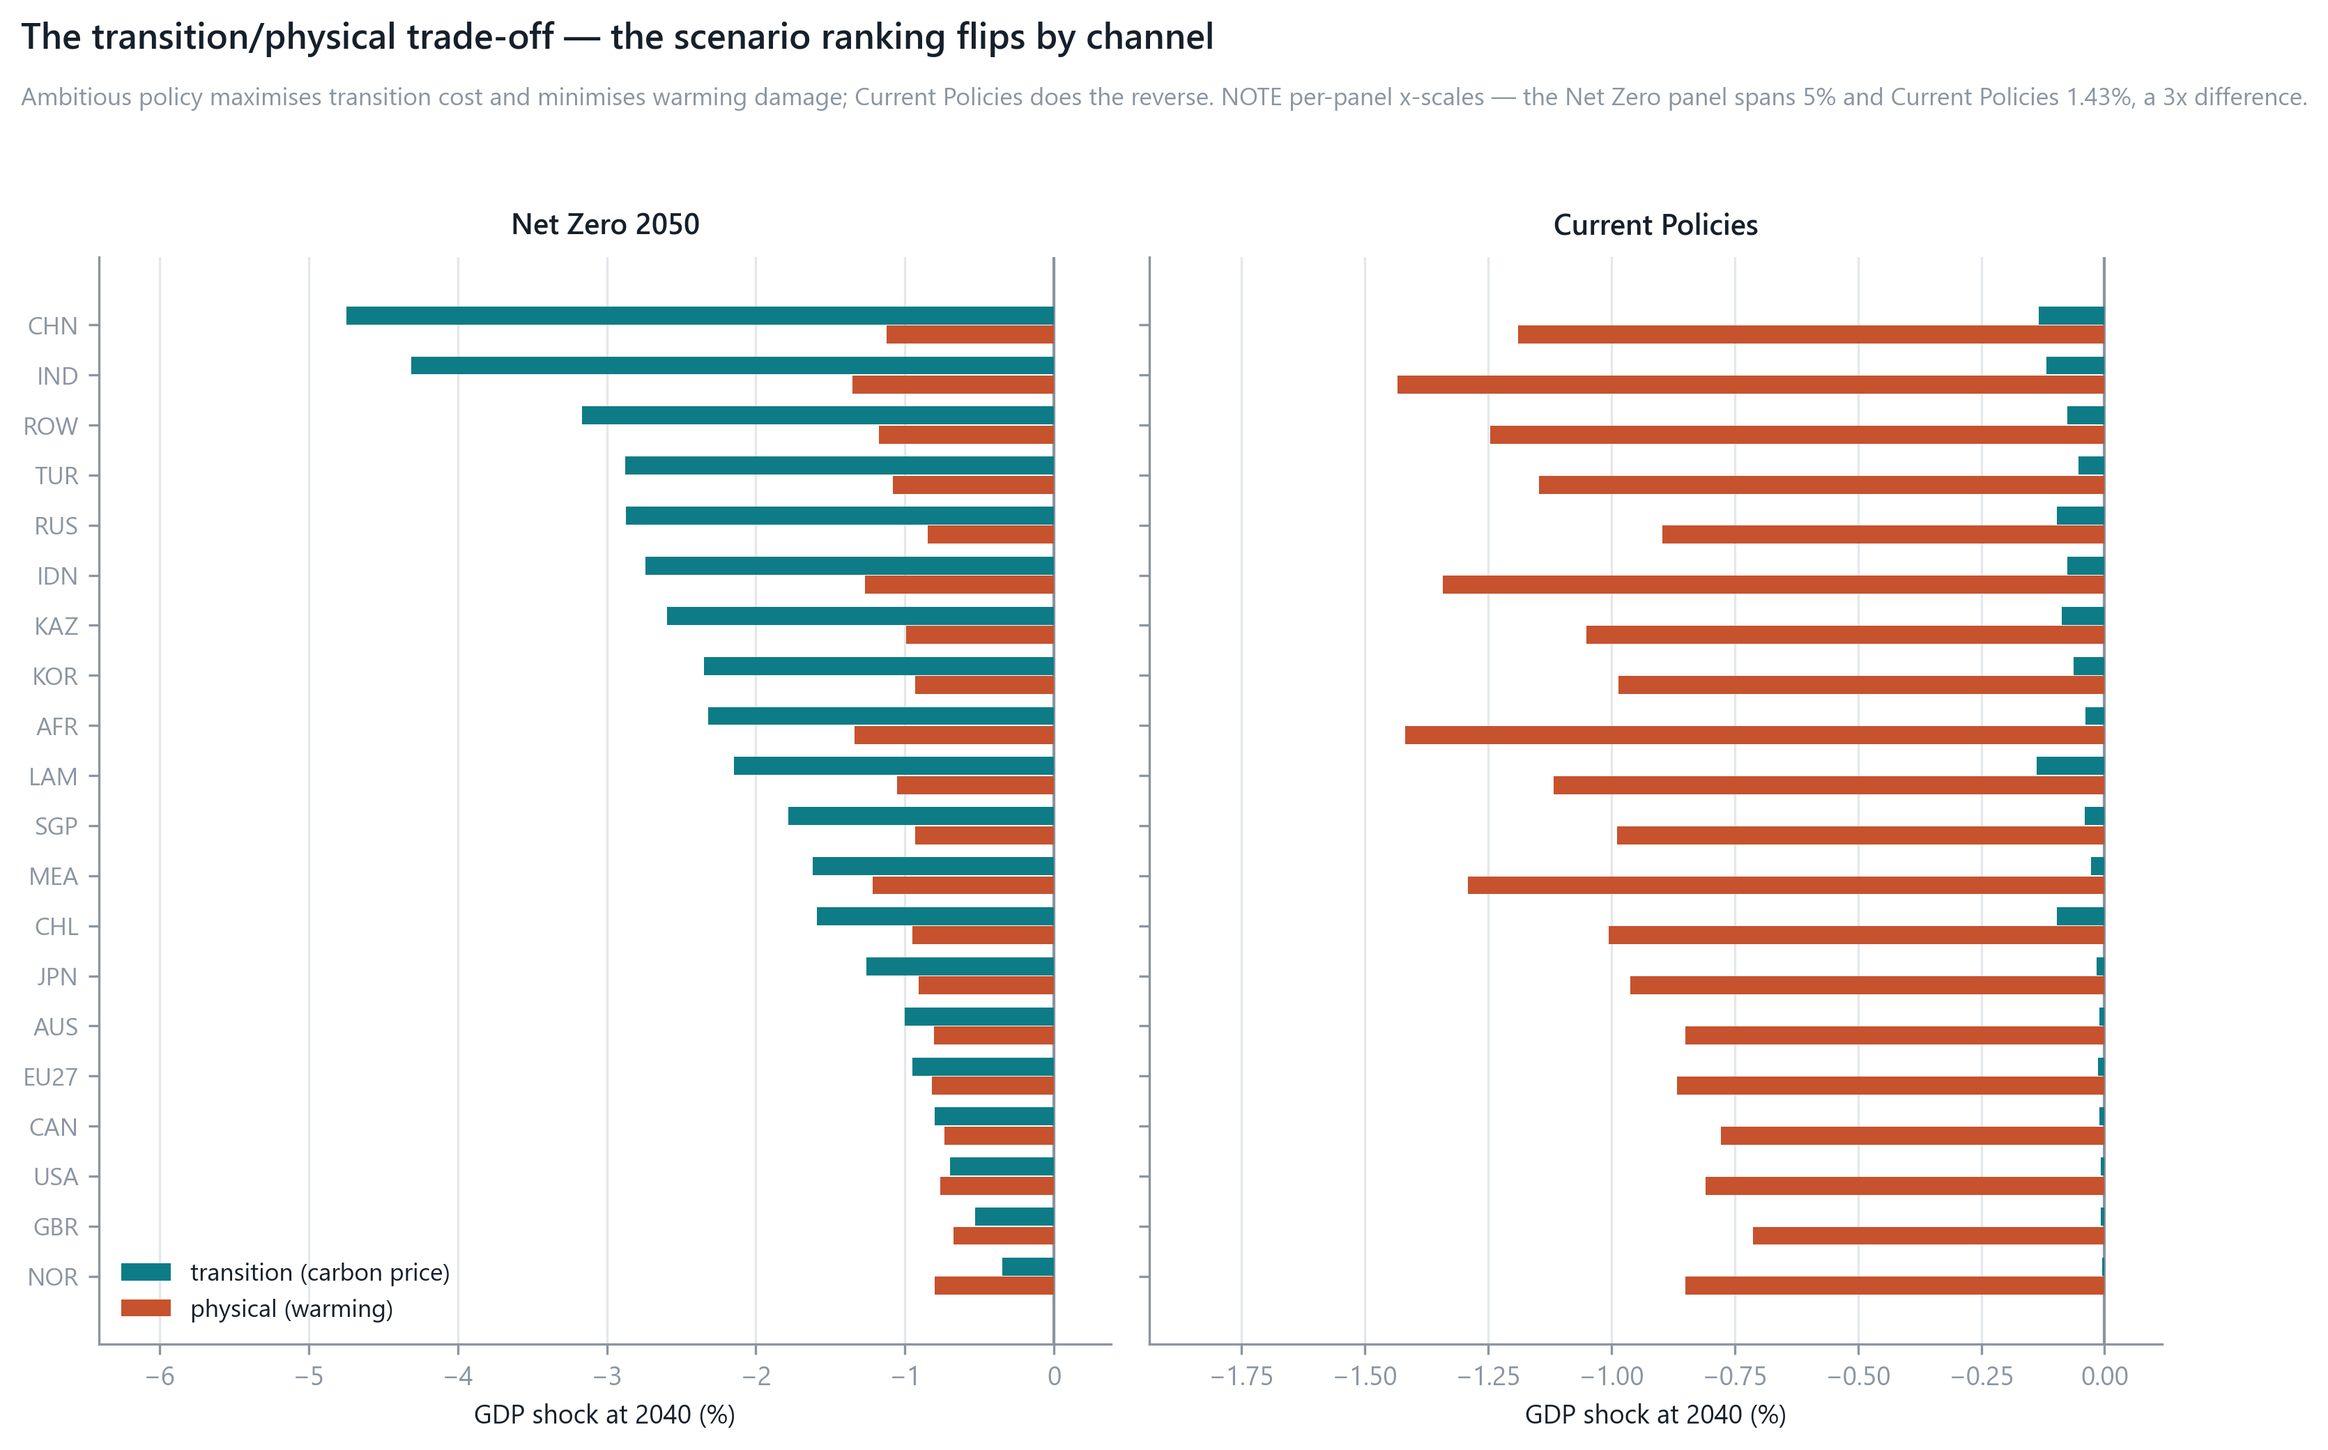
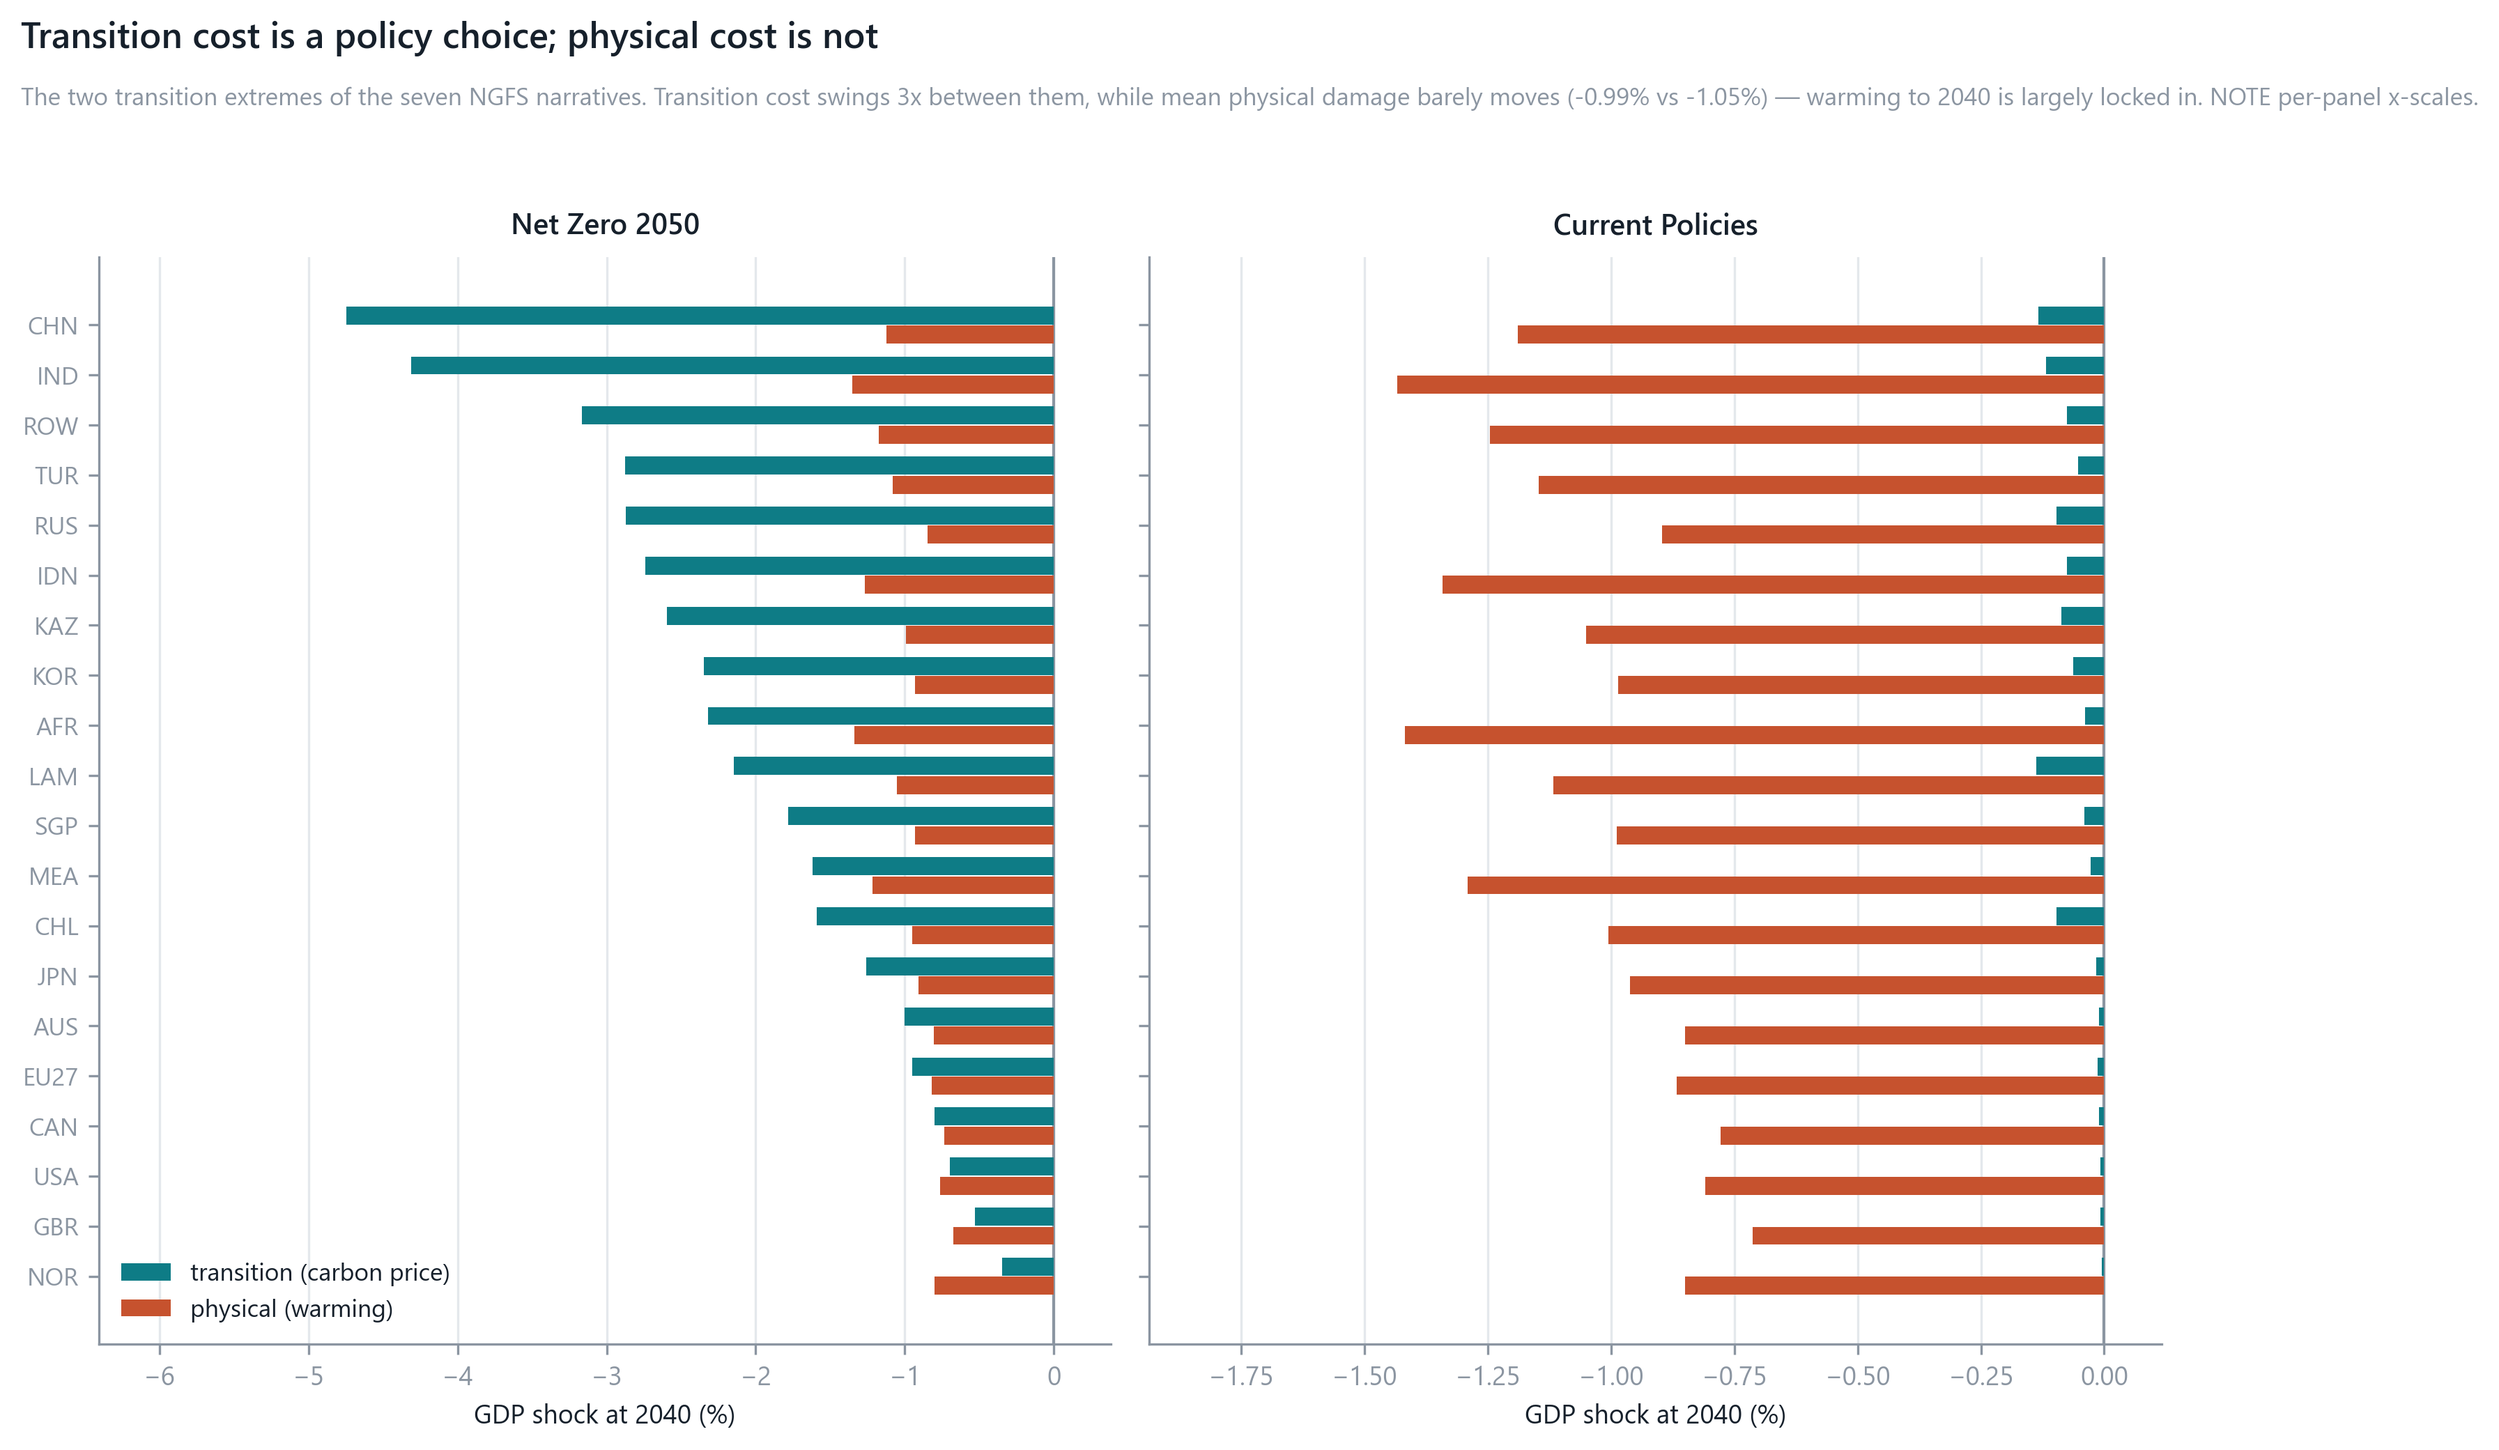
fig7 was silently dropping a scenario; show all seven, and justify fig1's two
fig7's code listed five scenarios and the figure rendered four.  The
missing one was 'Below 2C': the IIASA API returns 'Below 2?C' (ASCII 0x3f)
where the published name has a degree sign, so the exact lookup matched
nothing and matplotlib drew nothing.  This is the same bug class as
ffa69f4, which dropped the same scenario from every mixture.

Fixed with a normalising matcher that RAISES rather than returns nothing,
so it cannot fail silently again, plus a gate asserting all seven labels
resolve.

fig7 now shows all seven narratives rather than a subset.  That matters:
'Low demand' has the second-highest carbon price and the second-largest FX
dispersion (FX_REPORT 4) and was not in the figure at all.  The warming
panel now visibly shows all seven converging, which is the picture behind
the physical-risk floor.

fig1 keeps two panels, but for a stated reason.  They are the transition
extremes (Net Zero mean -2.04%, Current Policies -0.06%), NOT the physical
extremes - Current Policies is only 3rd on physical damage, and physical
varies just 0.08pp across all seven.  The old subtitle claimed 'Current
Policies does the reverse', which overstates a 0.08pp spread as a
trade-off.  Retitled to what the data supports: transition cost is a policy
choice, physical cost is not.

(cherry picked from commit 446797fa9e9ed7d34a29307815778e68ad022f53)

diff --git a/tools/make_figures.py b/tools/make_figures.py
@@ -33,6 +33,23 @@ plt.rcParams.update({
 })
 
 
+def scen(label, available):
+    """
+    Match a scenario label against what the data actually holds.
+
+    The IIASA API returns 'Below 2?C' (ASCII 0x3f) where the published name has
+    a degree sign, so an exact lookup silently drops that series -- which is
+    what fig7 did for several commits, plotting 4 of the 5 curves its code
+    listed.  bkmn.mixture solves this with the same normalisation; raise rather
+    than drop, so the failure can never be silent again.
+    """
+    norm = lambda t: "".join(ch for ch in t.lower() if ch.isalnum())
+    for a in available:
+        if norm(a) == norm(label):
+            return a
+    raise KeyError(f"scenario {label!r} not in {sorted(available)}")
+
+
 def load(name, idx=(0, 1)):
     d = pd.read_csv(os.path.join(ROOT, f"{name}.csv"), index_col=list(idx))
     return d
@@ -73,12 +90,18 @@ def fig_tradeoff():
     regs = list(tr.xs(NZ, level=0).index)
     order = sorted(regs, key=lambda r: tr.loc[(NZ, r), H])
     y = np.arange(len(order))
+    # Two panels, not seven: these are the transition EXTREMES (Net Zero has the
+    # largest mean transition cost at -2.04%, Current Policies the smallest at
+    # -0.06%).  Physical damage is deliberately not the selection criterion --
+    # it varies only 0.08pp across all seven scenarios, which is the point the
+    # figure makes.  All seven inputs are in fig7.
     fig, axes = plt.subplots(1, 2, figsize=(10.5, 6.4), sharey=True)
-    span = {}
+    span, phmean = {}, {}
     for ax, s in zip(axes, (NZ, CP)):
         t = [tr.loc[(s, r), H] for r in order]
         p = [ph.loc[(s, r), H] for r in order]
         span[s] = min(min(t), min(p))
+        phmean[s] = float(np.mean(p))
         ax.barh(y - 0.19, t, height=0.36, color=TEAL, label="transition (carbon price)", zorder=3)
         ax.barh(y + 0.19, p, height=0.36, color=WARM, label="physical (warming)", zorder=3)
         ax.axvline(0, color=MUTED, lw=1)
@@ -96,13 +119,13 @@ def fig_tradeoff():
     axes[0].set_yticks(y, order, fontsize=8.5)
     axes[0].invert_yaxis()
     axes[0].legend(loc="lower left", frameon=False, fontsize=8.5)
-    fig.suptitle("The transition/physical trade-off — the scenario ranking flips by channel",
+    fig.suptitle("Transition cost is a policy choice; physical cost is not",
                  fontsize=12.5, fontweight="600", x=0.012, ha="left", y=1.075)
     fig.text(0.012, 1.012,
-             "Ambitious policy maximises transition cost and minimises warming damage; Current "
-             f"Policies does the reverse. NOTE per-panel x-scales — the Net Zero panel spans "
-             f"{abs(span[NZ]):.0f}% and Current Policies {abs(span[CP]):.2f}%, a "
-             f"{abs(span[NZ])/abs(span[CP]):.0f}x difference.",
+             "The two transition extremes of the seven NGFS narratives. Transition cost swings "
+             f"{abs(span[NZ])/abs(span[CP]):.0f}x between them, while mean physical damage barely moves "
+             f"({phmean[NZ]:.2f}% vs {phmean[CP]:.2f}%) — warming to 2040 is largely locked in. "
+             "NOTE per-panel x-scales.",
              fontsize=8.5, color=MUTED, ha="left")
     fig.tight_layout()
     fig.savefig(os.path.join(FIG, "fig1_transition_vs_physical.png"), dpi=300, bbox_inches="tight")
@@ -226,9 +249,14 @@ def fig_inputs():
     from bkmn.scenarios import Scenarios
     m = loadm()
     sc = Scenarios(m.carbon_map)
-    scens = [NZ, "Below 2°C", "Delayed transition", NDC, CP]
-    labs = ["Net Zero 2050", "Below 2°C", "Delayed transition", "NDCs", "Current Policies"]
-    cols = [TEAL, "#4b9aa4", COOL, "#d08b5c", WARM]
+    # all seven NGFS narratives, not a subset: 'Low demand' in particular
+    # carries the second-largest FX dispersion (FX_REPORT 4) and was omitted.
+    want = [NZ, "Low demand", "Below 2C", "Delayed transition", NDC,
+            "Fragmented World", CP]
+    scens = [scen(w, sc.names) for w in want]
+    labs = ["Net Zero 2050", "Low demand", "Below 2°C", "Delayed transition",
+            "NDCs", "Fragmented World", "Current Policies"]
+    cols = [TEAL, "#2f6f6b", "#4b9aa4", COOL, "#d08b5c", "#a8703f", WARM]
     yrs = np.arange(2022, 2051)
     fig, axes = plt.subplots(1, 2, figsize=(10.5, 4.6))
     for s, lab, c in zip(scens, labs, cols):

diff --git a/tests/test_extensions.py b/tests/test_extensions.py
@@ -296,6 +296,23 @@ check("but the attribution to China is NOT robust",
       f"{_cs.CHN_share_of_revenue_pct.min():.0f}.."
       f"{_cs.CHN_share_of_revenue_pct.max():.0f}% of revenue")
 
+# every scenario label the figure code asks for must resolve against the data.
+# fig7 listed five series and silently plotted four for several commits, because
+# the IIASA API returns 'Below 2?C' where the published name has a degree sign.
+import importlib.util as _ilu                                              # noqa: E402
+_mf = _ilu.module_from_spec(_ilu.spec_from_file_location(
+    "mf", f"{ROOT}/tools/make_figures.py"))
+_names = Scenarios(m.carbon_map).names
+_ilu.spec_from_file_location("mf", f"{ROOT}/tools/make_figures.py").loader.exec_module(_mf)
+for _lab in [_mf.NZ, _mf.CP, _mf.NDC, "Low demand", "Below 2C",
+             "Delayed transition", "Fragmented World"]:
+    _mf.scen(_lab, _names)          # raises if it cannot be matched
+check("every figure scenario label resolves against the data",
+      len({_mf.scen(x, _names) for x in
+           [_mf.NZ, _mf.CP, _mf.NDC, "Low demand", "Below 2C",
+            "Delayed transition", "Fragmented World"]}) == 7,
+      "all 7 NGFS narratives matched, incl. the degree-sign case")
+
 # spot is near-perfectly a rescaled carbon-pricing scope vector, because 20
 # regions map onto only 5 NGFS R5 zones.  Gated so the claim cannot silently
 # become false (or be quoted as an exact 1.000) if the zone mapping changes.

diff --git a/docs/FIGURES.md b/docs/FIGURES.md
@@ -23,7 +23,11 @@ the scenario is Net Zero 2050.
 
 ### fig1 — `fig1_transition_vs_physical.png`
 **What.** Transition (carbon-price) versus physical (warming) GDP shock per
-region, Net Zero 2050 against Current Policies, at 2040.
+region, at 2040. **Two of the seven scenarios**, chosen as the transition
+*extremes* — Net Zero has the largest mean transition cost (−2.04 %), Current
+Policies the smallest (−0.06 %). Physical damage is deliberately *not* the
+selection criterion, because it varies only 0.08 pp across all seven, which is
+the point the figure makes. All seven inputs are in fig7.
 
 **Findings.** The channel ranking flips cleanly: under Net Zero transition
 dominates in **17/20** regions (China −4.74 %), under Current Policies physical
@@ -65,14 +69,23 @@ See [FX_REPORT.md](FX_REPORT.md) §2.
 ## Scenario and uncertainty
 
 ### fig7 — `fig7_scenario_inputs.png`
-**What.** The two NGFS Phase 5 driver paths: OECD carbon price and global mean
-warming, 2022–2050, for four scenarios.
+**What.** The two NGFS Phase 5 driver paths — OECD carbon price and global mean
+warming, 2022–2050 — for **all seven** narratives.
 
-**Findings.** The two drivers diverge on completely different scales. Carbon
-prices span **~$3 to ~$625/tCO₂e** by 2050; warming spans only **1.70 K to
-1.93 K**. That asymmetry is why FX responds to the carbon *price* rather than to
-temperature, and it is the evidence behind switching the scenario-transition
-distance metric from 1-D warming to 2-D (ΔT₂₁₀₀, XCE₂₀₅₀).
+**Findings.** The drivers diverge on completely different scales. Carbon prices
+span **~\$3 to ~\$625/tCO₂e** by 2050; warming spans only **1.70 K to 1.93 K**.
+That asymmetry is why FX responds to the carbon *price* rather than temperature,
+and it is the evidence behind the 2-D (ΔT₂₁₀₀, XCE₂₀₅₀) distance metric for the
+scenario transition matrix. The tight warming fan is also the visual form of
+[FX_REPORT.md](FX_REPORT.md) §4's floor: policy moves the price panel, not the
+temperature panel.
+
+**Low demand** is the reason this figure now shows all seven. It carries the
+second-highest carbon price and hence the second-largest FX dispersion, but was
+absent from the figure — and *Below 2 °C* was silently dropped by a label
+mismatch (`Below 2?C` from the IIASA API against a degree sign in the code), so
+the figure plotted four of the five series its code listed. Both fixed; a gate
+now asserts every scenario label resolves.
 
 ### fig8 — `fig8_fx_term_structure.png`
 **What.** 5-year forward FX by horizon year, 2025–2045, Net Zero against NDCs,
